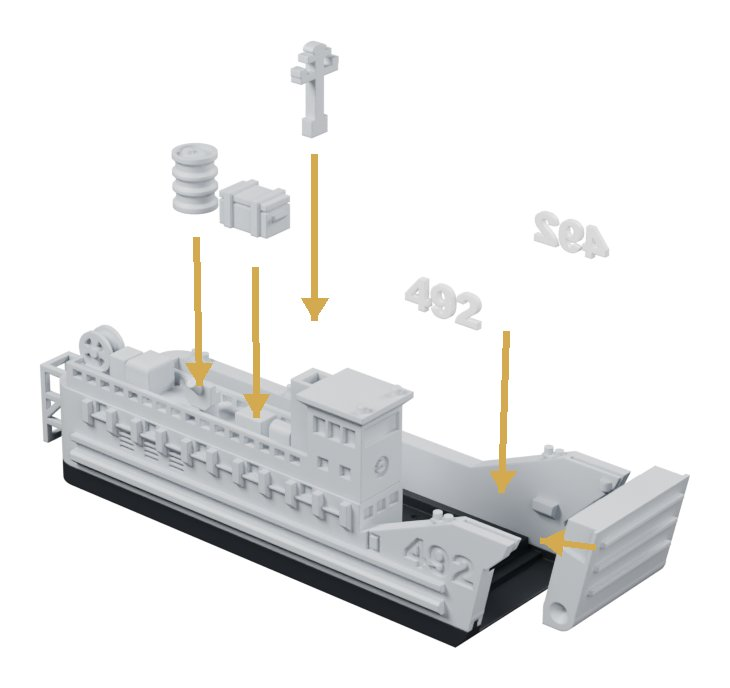
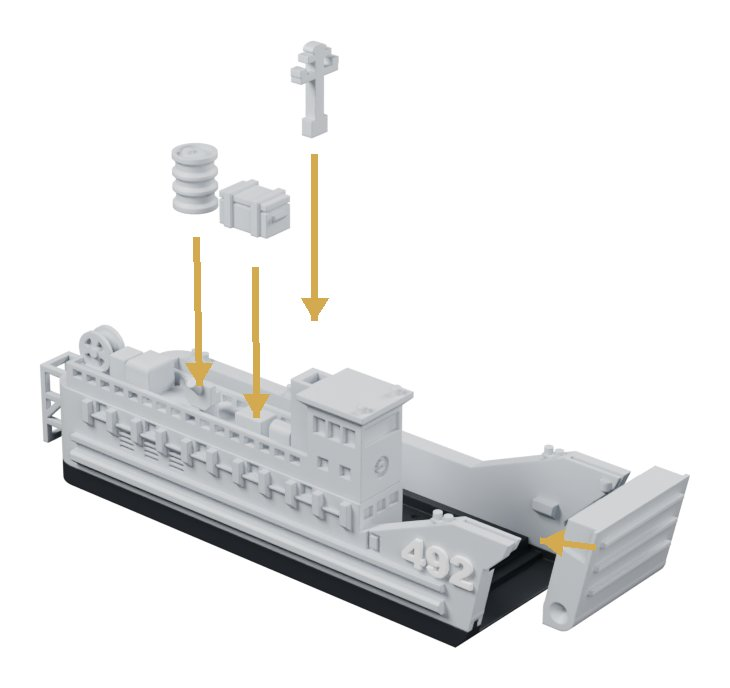
LCM、LCU 換新版模型，修正第三步文字
Claude-Session: https://claude.ai/code/session_01PMi77Uogk3HzPaXVURTpF8

diff --git a/lcm/index.html b/lcm/index.html
@@ -9,5 +9,5 @@ main{max-width:720px;margin:0 auto;padding:16px}h1{margin:8px 0 0;font-size:30px
 .warn{background:#fff;border-radius:12px;padding:12px 16px;margin:18px 0}.warn h3{margin:0 0 6px;font-size:16px;color:#a8322a}.warn li{margin:2px 0}
 .grid{display:grid;grid-template-columns:repeat(auto-fill,minmax(150px,1fr));gap:12px}.grid a{display:block;background:#fff;border-radius:10px;padding:8px;text-decoration:none;color:var(--ink);text-align:center}
 .grid img{width:100%}.grid b{display:block;font-size:17px}footer{color:var(--mut);font-size:13px;text-align:center;padding:24px 16px}a{color:var(--navy2)}</style></head><body>
-<header><a href=".././"><img src="../img/logo.png" alt="千一工坊"></a><b>Q 版艦艇圖鑑・組裝教學</b></header><main><h1>LCM</h1><p class="sub">機械化登陸艇・登陸艇・零件 13 件</p><img class="hero" src="../img/lcm_hero.jpg" alt="機械化登陸艇"><div class="tip">組裝順序：照 A → B → C 袋依序拆開。輕推艏門往下，跳板就會放下。</div><div class="step"><h2><span>01</span>A 袋｜船體壓上船底</h2><img src="../img/lcm_step1.jpg" alt="A 袋｜船體壓上船底" loading="lazy"></div><div class="step"><h2><span>02</span>B 袋｜駕駛台卡上</h2><img src="../img/lcm_step2.jpg" alt="B 袋｜駕駛台卡上" loading="lazy"></div><div class="step"><h2><span>03</span>C 袋｜彈箱、油桶、舷號_艏門、艏門、輪胎裝上</h2><img src="../img/lcm_step3.jpg" alt="C 袋｜彈箱、油桶、舷號_艏門、艏門、輪胎裝上" loading="lazy"></div><div class="warn"><h3>注意事項</h3><ul><li>收藏模型・非玩具・14 歲以上</li><li>含小零件，請勿讓幼兒接觸，以免誤食</li><li>細件易斷，組裝時請輕壓，不要硬扳</li><li>PLA 怕熱，勿放高溫車內或陽光直射（超過 50°C 會變形）</li><li>3D 列印手工製品，表面細微層紋屬正常現象</li><li>非官方商品，與中華民國海軍無關</li></ul></div></main>
+<header><a href=".././"><img src="../img/logo.png" alt="千一工坊"></a><b>Q 版艦艇圖鑑・組裝教學</b></header><main><h1>LCM</h1><p class="sub">機械化登陸艇・登陸艇・零件 13 件</p><img class="hero" src="../img/lcm_hero.jpg" alt="機械化登陸艇"><div class="tip">組裝順序：照 A → B → C 袋依序拆開。輕推艏門往下，跳板就會放下。</div><div class="step"><h2><span>01</span>A 袋｜船體壓上船底</h2><img src="../img/lcm_step1.jpg" alt="A 袋｜船體壓上船底" loading="lazy"></div><div class="step"><h2><span>02</span>B 袋｜駕駛台卡上船尾</h2><img src="../img/lcm_step2.jpg" alt="B 袋｜駕駛台卡上船尾" loading="lazy"></div><div class="step"><h2><span>03</span>C 袋｜輪胎、艏門裝上，油桶彈箱插上甲板</h2><img src="../img/lcm_step3.jpg" alt="C 袋｜輪胎、艏門裝上，油桶彈箱插上甲板" loading="lazy"></div><div class="warn"><h3>注意事項</h3><ul><li>收藏模型・非玩具・14 歲以上</li><li>含小零件，請勿讓幼兒接觸，以免誤食</li><li>細件易斷，組裝時請輕壓，不要硬扳</li><li>PLA 怕熱，勿放高溫車內或陽光直射（超過 50°C 會變形）</li><li>3D 列印手工製品，表面細微層紋屬正常現象</li><li>非官方商品，與中華民國海軍無關</li></ul></div></main>
 <footer>零件有缺或斷掉，拍照私訊 IG <a href="https://www.instagram.com/qianyi.minis/">@qianyi.minis</a>，免費補寄<br>© 千一工坊 QIANYI MINIS</footer></body></html>

diff --git a/lcu/index.html b/lcu/index.html
@@ -9,5 +9,5 @@ main{max-width:720px;margin:0 auto;padding:16px}h1{margin:8px 0 0;font-size:30px
 .warn{background:#fff;border-radius:12px;padding:12px 16px;margin:18px 0}.warn h3{margin:0 0 6px;font-size:16px;color:#a8322a}.warn li{margin:2px 0}
 .grid{display:grid;grid-template-columns:repeat(auto-fill,minmax(150px,1fr));gap:12px}.grid a{display:block;background:#fff;border-radius:10px;padding:8px;text-decoration:none;color:var(--ink);text-align:center}
 .grid img{width:100%}.grid b{display:block;font-size:17px}footer{color:var(--mut);font-size:13px;text-align:center;padding:24px 16px}a{color:var(--navy2)}</style></head><body>
-<header><a href=".././"><img src="../img/logo.png" alt="千一工坊"></a><b>Q 版艦艇圖鑑・組裝教學</b></header><main><h1>LCU</h1><p class="sub">通用登陸艇・登陸艇・零件 8 件</p><img class="hero" src="../img/lcu_hero.jpg" alt="通用登陸艇"><div class="tip">組裝順序：照 A → B → C 袋依序拆開。輕推艏門往下，跳板就會放下。</div><div class="step"><h2><span>01</span>A 袋｜船體壓上船底</h2><img src="../img/lcu_step1.jpg" alt="A 袋｜船體壓上船底" loading="lazy"></div><div class="step"><h2><span>02</span>B 袋｜甲板室卡上</h2><img src="../img/lcu_step2.jpg" alt="B 袋｜甲板室卡上" loading="lazy"></div><div class="step"><h2><span>03</span>C 袋｜天線、彈箱、油桶、舷號、艏門裝上</h2><img src="../img/lcu_step3.jpg" alt="C 袋｜天線、彈箱、油桶、舷號、艏門裝上" loading="lazy"></div><div class="warn"><h3>注意事項</h3><ul><li>收藏模型・非玩具・14 歲以上</li><li>含小零件，請勿讓幼兒接觸，以免誤食</li><li>細件易斷，組裝時請輕壓，不要硬扳</li><li>PLA 怕熱，勿放高溫車內或陽光直射（超過 50°C 會變形）</li><li>3D 列印手工製品，表面細微層紋屬正常現象</li><li>非官方商品，與中華民國海軍無關</li></ul></div></main>
+<header><a href=".././"><img src="../img/logo.png" alt="千一工坊"></a><b>Q 版艦艇圖鑑・組裝教學</b></header><main><h1>LCU</h1><p class="sub">通用登陸艇・登陸艇・零件 8 件</p><img class="hero" src="../img/lcu_hero.jpg" alt="通用登陸艇"><div class="tip">組裝順序：照 A → B → C 袋依序拆開。輕推艏門往下，跳板就會放下。</div><div class="step"><h2><span>01</span>A 袋｜船體壓上船底</h2><img src="../img/lcu_step1.jpg" alt="A 袋｜船體壓上船底" loading="lazy"></div><div class="step"><h2><span>02</span>B 袋｜駕駛台卡上船尾</h2><img src="../img/lcu_step2.jpg" alt="B 袋｜駕駛台卡上船尾" loading="lazy"></div><div class="step"><h2><span>03</span>C 袋｜艏門、天線裝上，油桶彈箱插上甲板</h2><img src="../img/lcu_step3.jpg" alt="C 袋｜艏門、天線裝上，油桶彈箱插上甲板" loading="lazy"></div><div class="warn"><h3>注意事項</h3><ul><li>收藏模型・非玩具・14 歲以上</li><li>含小零件，請勿讓幼兒接觸，以免誤食</li><li>細件易斷，組裝時請輕壓，不要硬扳</li><li>PLA 怕熱，勿放高溫車內或陽光直射（超過 50°C 會變形）</li><li>3D 列印手工製品，表面細微層紋屬正常現象</li><li>非官方商品，與中華民國海軍無關</li></ul></div></main>
 <footer>零件有缺或斷掉，拍照私訊 IG <a href="https://www.instagram.com/qianyi.minis/">@qianyi.minis</a>，免費補寄<br>© 千一工坊 QIANYI MINIS</footer></body></html>
